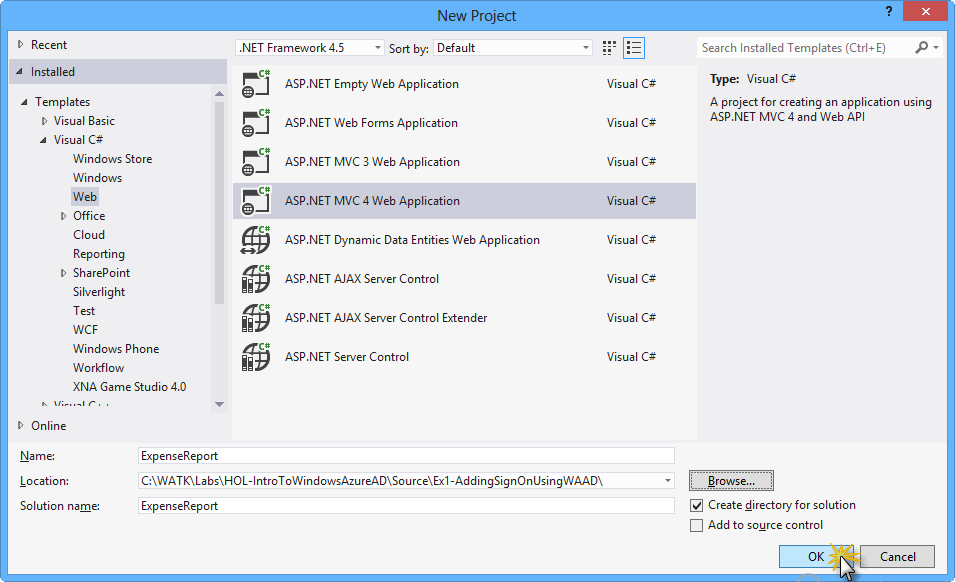
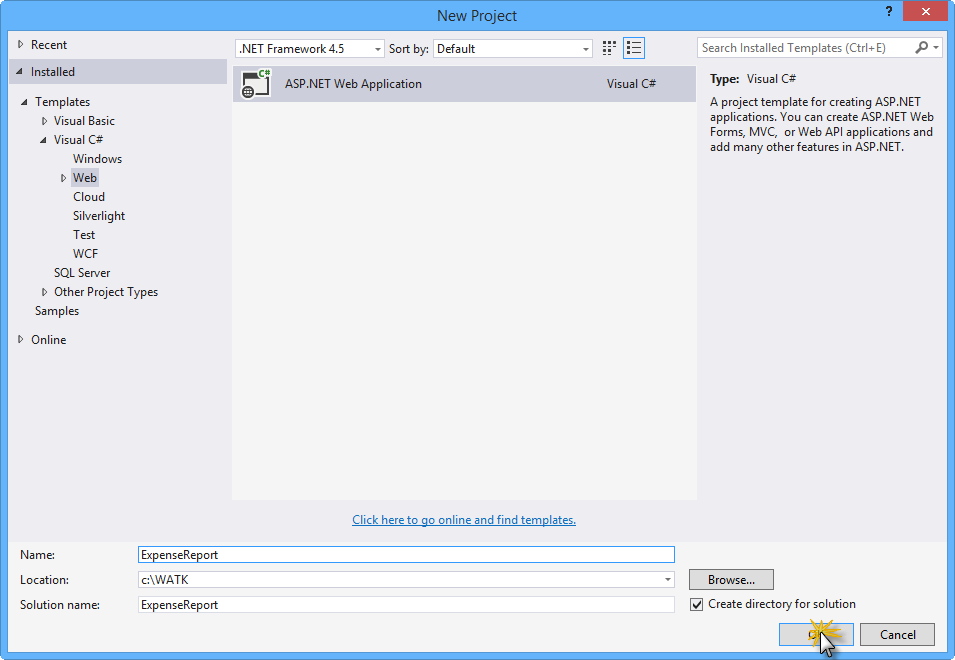
[HOL-IntroToWindowsAzureAD] Removed dependencies and updated screenshot

diff --git a/HOLs/HOL-IntroToWindowsAzureAD/HOL.md b/HOLs/HOL-IntroToWindowsAzureAD/HOL.md
@@ -28,18 +28,13 @@ In this hands-on lab, you will learn how to:
 The following is required to complete this hands-on lab:
 
 - [Visual Studio Express 2013 for Web][1] or greater
-- TODO: Review if it is requiered [Identity and Access Tools for Visual Studio 2012][2]
-- TODO: Review if it is requiered [WCF Data Services 5.3 Tools][3]
 - A Windows Azure subscription
 	- Sign up for a [Free Trial](http://aka.ms/watk-freetrial)
 	- If you are a Visual Studio Professional, Test Professional, Premium or Ultimate with MSDN or MSDN Platforms subscriber, activate your [MSDN benefit](http://aka.ms/watk-msdn) now to start development and test on Windows Azure.
 	- [BizSpark](http://aka.ms/watk-bizspark) members automatically receive the Windows Azure benefit through their Visual Studio Ultimate with MSDN subscriptions.
 	- Members of the [Microsoft Partner Network](http://aka.ms/watk-mpn) Cloud Essentials program receive monthly credits of Windows Azure at no charge.
 
-
 [1]:http://www.microsoft.com/visualstudio/
-[2]: http://visualstudiogallery.msdn.microsoft.com/e21bf653-dfe1-4d81-b3d3-795cb104066e
-[3]:http://www.microsoft.com/en-us/download/details.aspx?id=35840
 
 <a name="Setup"/>
 ### Setup ###
@@ -105,15 +100,15 @@ In this task, you will provision a new Windows Azure Active Directory Tenant fro
 
 	_Creating a New Directory_
 
-	> **Note:** This dialog gathers essential information needed to create a directory tenant for you.
+	> **Note:** This dialog box gathers essential information needed to create a directory tenant for you.
 	>
-	> * **Organization Name**: This field is required, and its value will be used as a moniker whenever there's the need to display the company name. 
+	> * **Name**: This field is required, and its value will be used as a moniker whenever there's the need to display the company name. 
 	>
 	> * **Domain Name**: This field represents a critical piece of information: it is the part of the directory tenant domain name that is specific to your tenant, what distinguishes it from every other directory tenant. 
 	>
-	> 		At creation, every directory tenant is identified by a domain of the form <tenantname>.onmicrosoft.com. That domain is used in the UPN of all the directory users and in general wherever it is necessary to identify your directory tenant. After creation it is possible to register additional domains that you own. For more information, see domain management.
+	>		At creation, every directory tenant is identified by a domain of the form <tenantname>.onmicrosoft.com. That domain is used in the UPN of all the directory users and in general wherever it is necessary to identify your directory tenant. After creation it is possible to register additional domains that you own. For more information, see domain management.
 	>
-	> * **The Domain Name must be unique**: the UI validation logic will help you to pick a unique value. It is recommended that you choose a handle which refers to your company, as that will help users and partners as they interact with the directory tenant.
+	> 		The domain name must be unique. The UI validation logic will help you to pick a unique value. It is recommended that you choose a handle which refers to your company, as that will help users and partners as they interact with the directory tenant.
 	>
 	> * **Country or Region**: The value selected in this dropdown will determine where your tenant will be created. Given that the directory will store sensitive information, please do take into account the normative about privacy of the country in which your company operates. 
 
@@ -125,7 +120,7 @@ In this task, you will provision a new Windows Azure Active Directory Tenant fro
 
 	> **Note:** When a directory tenant is created, it is configured to store users and credentials in the cloud. If you want to integrate your directory tenant with your on-premises deployment of Windows Server Active Directory, you can find detailed instructions [here](http://technet.microsoft.com/library/jj151781.aspx).
 
-1.	Click on the newly created directory entry and then click the Users tabs to display the user management UI. The directory tenant is initially empty, except for the Microsoft Account administering the Windows Azure subscription in which the new tenant was created.
+1.	Click on the newly created directory entry and then click the **Users** tab to display the user management UI. The directory tenant is initially empty, except for the Microsoft Account administering the Windows Azure subscription in which the new tenant was created.
 
 	![Active Directory User list](Images/active-directory-user-list.png?raw=true "Active Directory User list")
 
@@ -149,19 +144,19 @@ In this task, you will provision a new Windows Azure Active Directory Tenant fro
 
 	_Filling user profile information_
 
-1.	The Management Portal generates a temporary password, which will have to be used at the time of the first login. At that time the user will be forced to change password. Click the **create** button.
+1.	The Windows Azure Management Portal generates a temporary password, which will have to be used at the time of the first login. At that time the user will be forced to change password. Click the **create** button.
 
 	![Creating a temporary password](Images/creating-a-temporary-password.png?raw=true "Creating a temporary password")
 
 	_Creating a temporary password_
 
-1. Take note of the temporary password, as you will need it in the following tasks. Click the check button to create the user.
+1. Take note of the temporary password, as you will need it in the following tasks. Click the **check** button to create the user.
 
 	![Creating the new user](Images/creating-the-new-user.png?raw=true "Creating the new user")
 
 	_Creating the new user_
 
-1. Now, will repeat the steps to add new admin user to the directory. Click the **Add User** button in the bottom bar.
+1. Now, will repeat the steps to add new _admin_ user to the directory. Click the **Add User** button in the bottom bar.
 
 	![Add New User to Active Directory](Images/add-new-user-to-active-directory.png?raw=true "Add New User to Active Directory")
 
@@ -283,7 +278,7 @@ In this task you will explore the code generated by Visual Studio to enable Sing
 
 	_Logging in to the Application_
 
-1.	You might recall that when you created the user in your Windows Azure AD tenant the Management Portal assigned to it a temporary password. You have to authenticate using that password. However, given that such password was meant to be temporary, during this very first sign-in operation you will be asked to choose a proper user password before being able to move forward with the authentication flow. Once you'll be done with that, the normal sign-in flow to the app will be restored.
+1.	You might recall that when you created the user in your Windows Azure AD tenant the Windows Azure Management Portal assigned to it a temporary password. You have to authenticate using that password. However, given that such password was meant to be temporary, during this very first sign-in operation you will be asked to choose a proper user password before being able to move forward with the authentication flow. Once you'll be done with that, the normal sign-in flow to the app will be restored.
 
 	![Resetting AD password](Images/resetting-ad-password.png?raw=true)
 
@@ -309,7 +304,7 @@ In this task you will explore the code generated by Visual Studio to enable Sing
 
 1. Stop running the solution by pressing **Shift + F5**.
 
-1.	Minimize Visual Studio and go back to the **Management Portal**. Go to your Active Directory tenant and click **Applications**.
+1.	Minimize Visual Studio and go back to the **Windows Azure Management Portal**. Go to your Active Directory tenant and click on **Applications** tab.
 
 1. Click on the arrow next to the **ExpenseReport** application in the **Applications** list to go to the dashboard.
 
@@ -329,7 +324,7 @@ In this task you will explore the code generated by Visual Studio to enable Sing
 
 	_Configure button_
 
-1. In the **Properties** section, you can check the **SIGN-ON URL** which is the URL where users can sign in and use your app. You can also see the **CLIENT ID** which is the unique identifier for your app. 
+1. In the **Properties** section, you can check the **SIGN-ON URL** which is the URL where users can sign in and use your app. You can also see the **CLIENT ID** which is the unique identifier for your app. You will use the **CLIENT ID** property in the next exercise. 
 
 	![Properties section in Configure tab](Images/properties-group-in-configure-section.png?raw=true "Properties section in Configure tab")
 
